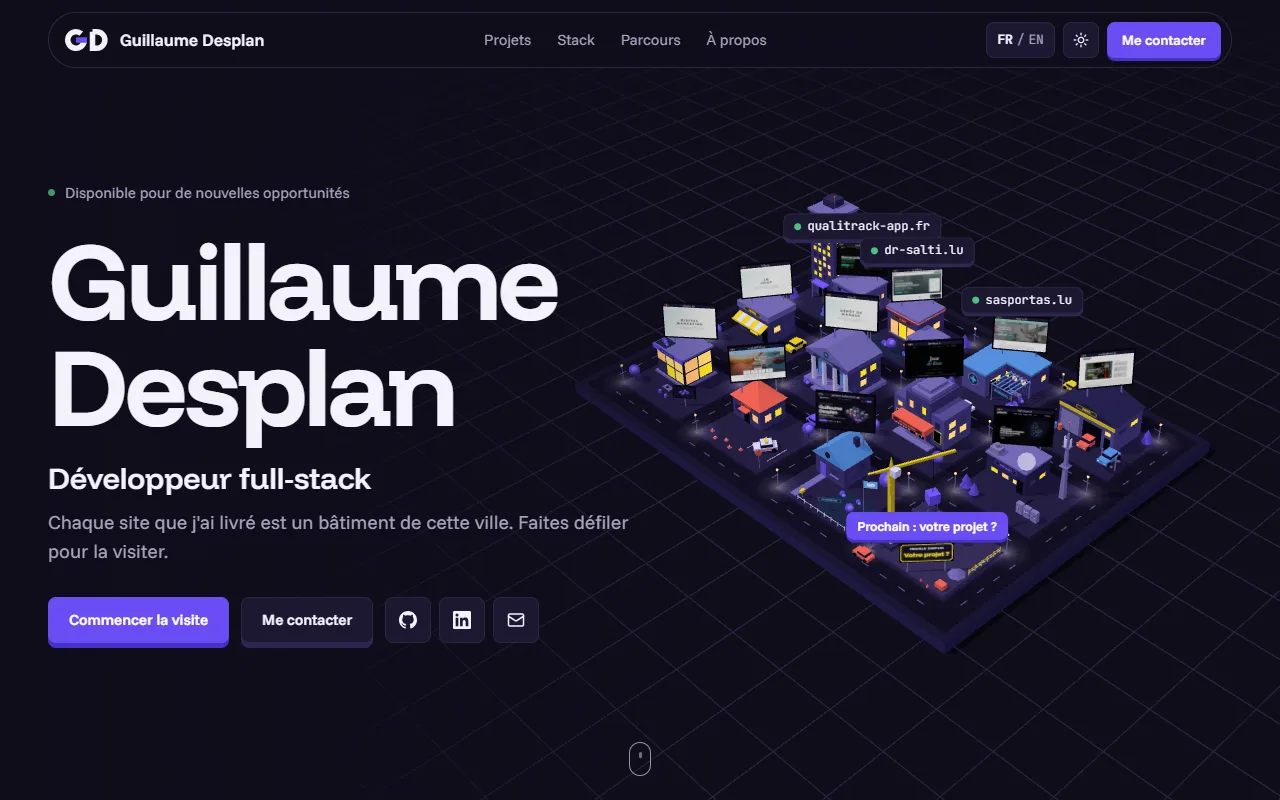
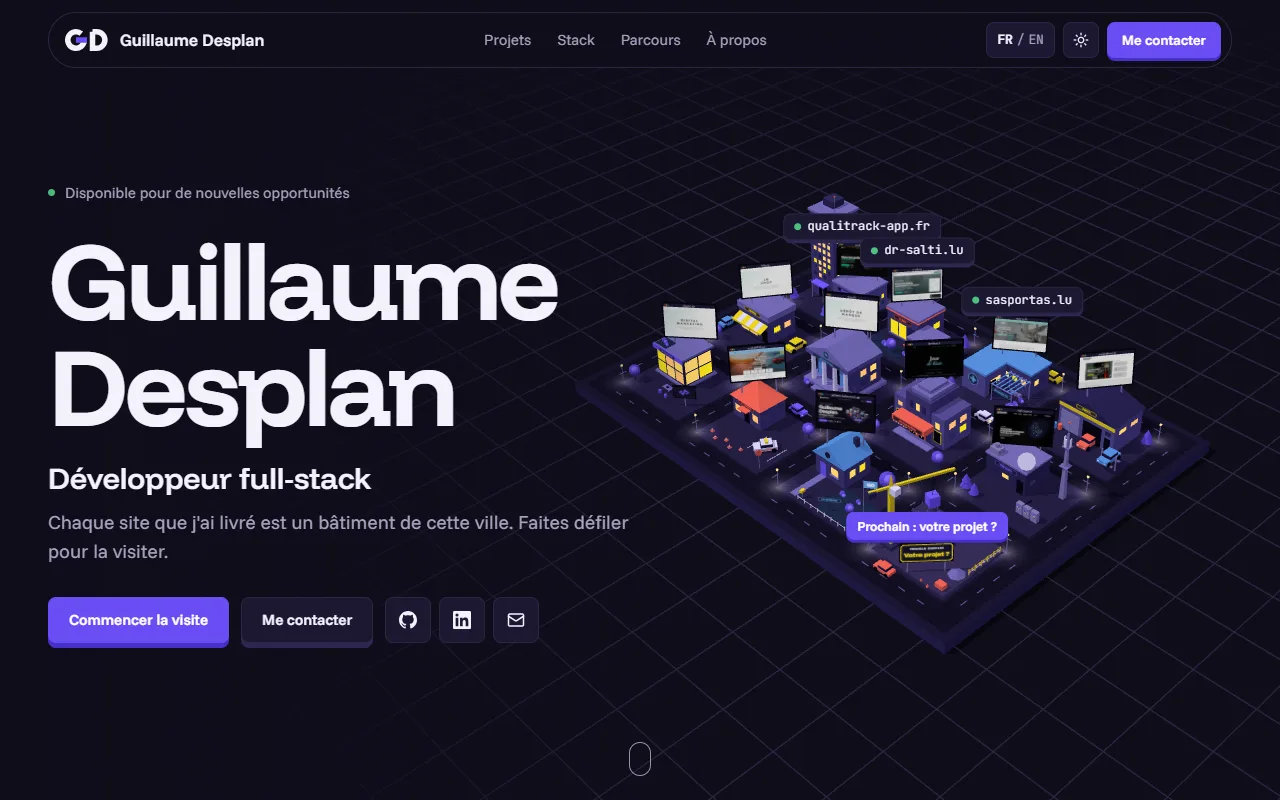
fix(city): lower the crane out of the neighbouring stop's frame

diff --git a/src/city/buildings/lot.ts b/src/city/buildings/lot.ts
@@ -39,10 +39,11 @@ export const lot: Builder = (ctx) => {
 
   // Grue : fût, cabine, flèche, contrepoids, et le premier bloc du prochain bâtiment
   kit.box(group, "wallDark", 1.7, 0.5, 1.7, -4.6, 0, 3.2);
-  kit.cyl(group, "jaune", 0.42, 0.42, 11, -4.6, 0.5, 3.2, 4).rotation.y = Math.PI / 4;
-  kit.box(group, "white", 0.95, 0.95, 0.95, -3.95, 11.1, 3.2);
+  kit.cyl(group, "jaune", 0.42, 0.42, 8.2, -4.6, 0.5, 3.2, 4).rotation.y = Math.PI / 4;
+  kit.box(group, "white", 0.95, 0.95, 0.95, -3.95, 8.3, 3.2);
   const jib = new Group();
-  jib.position.set(-4.6, 11.6, 3.2);
+  // Pas plus haute : au-delà, sa flèche entre dans le cadre de l'arrêt voisin
+  jib.position.set(-4.6, 8.9, 3.2);
   // La flèche pointe vers les fondations
   jib.rotation.y = 1.2;
   group.add(jib);
@@ -50,8 +51,8 @@ export const lot: Builder = (ctx) => {
   kit.box(jib, "jaune", 2.8, 0.28, 0.28, -1.5, 0, 0);
   kit.box(jib, "wallDark", 1, 0.8, 0.8, -2.5, -0.6, 0);
   kit.cyl(jib, "jaune", 0.05, 0.3, 1.5, 0, 0.3, 0, 4);
-  kit.cyl(jib, "dark", 0.03, 0.03, 5.2, 5.4, -5.2, 0, 5);
-  kit.box(jib, "violet", 1.4, 1.4, 1.4, 5.4, -6.6, 0);
+  kit.cyl(jib, "dark", 0.03, 0.03, 2.9, 5.4, -2.9, 0, 5);
+  kit.box(jib, "violet", 1.4, 1.4, 1.4, 5.4, -4.3, 0);
 
   // Panneau tourné vers la caméra
   const board = new Group();
